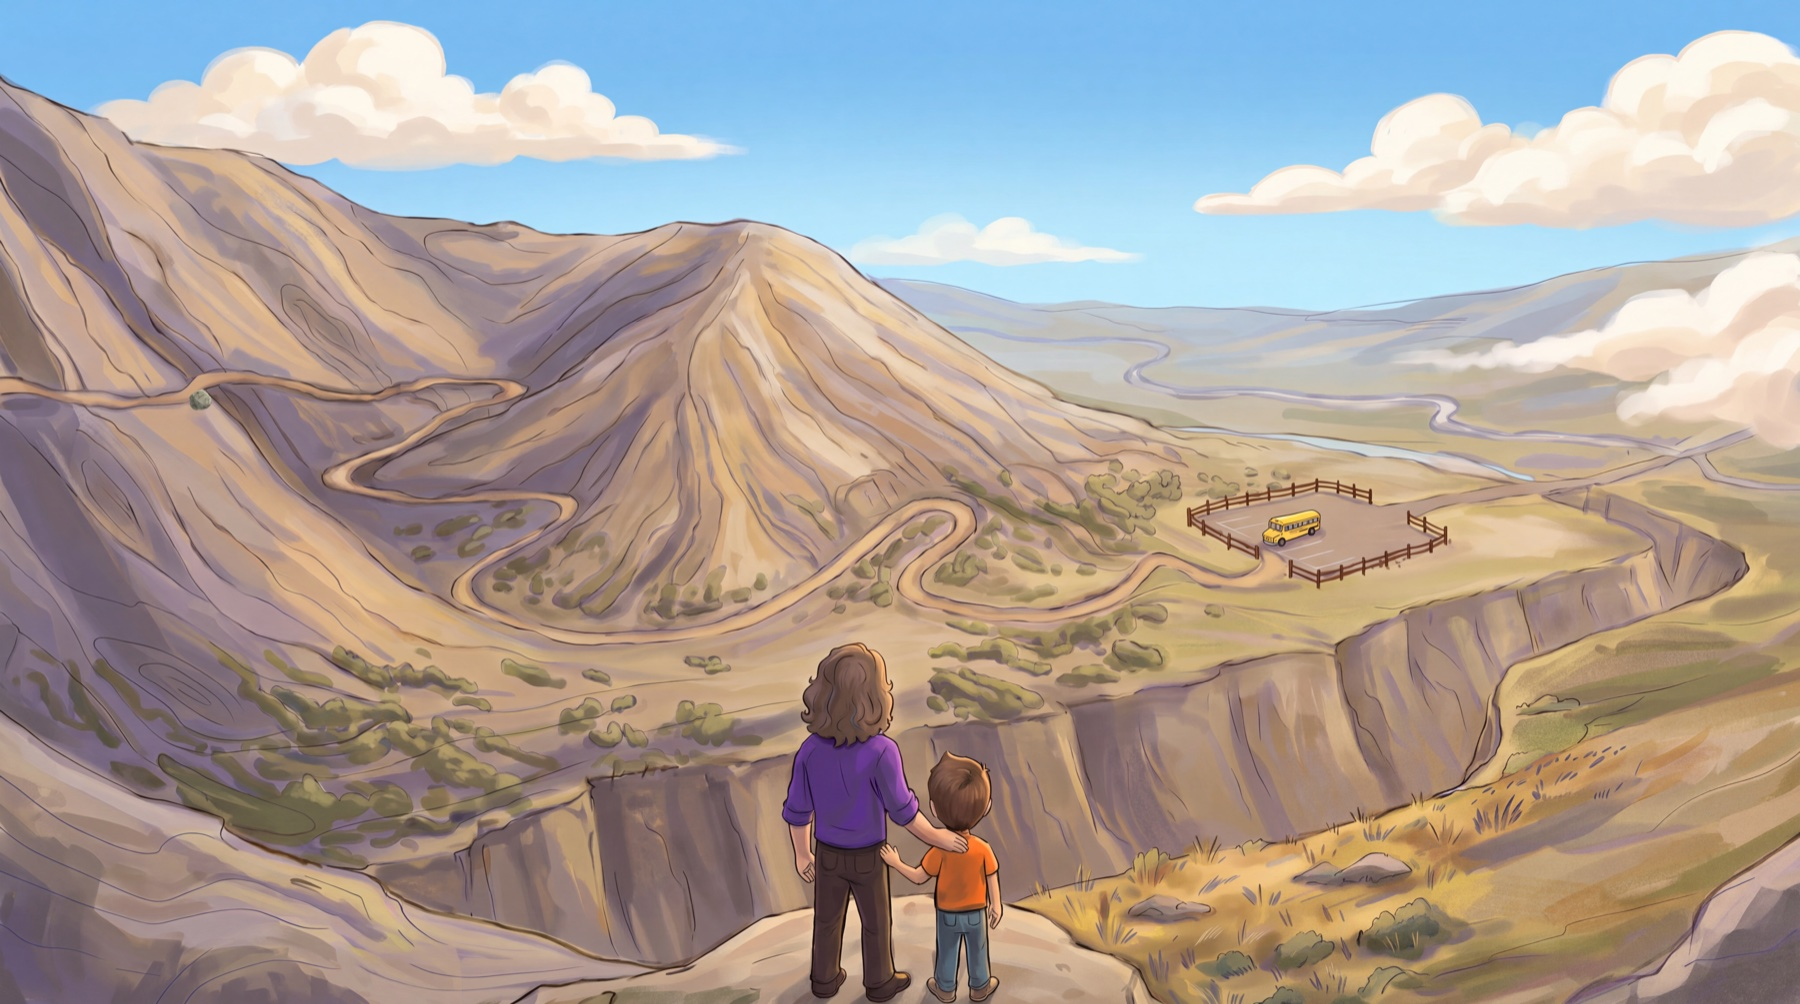
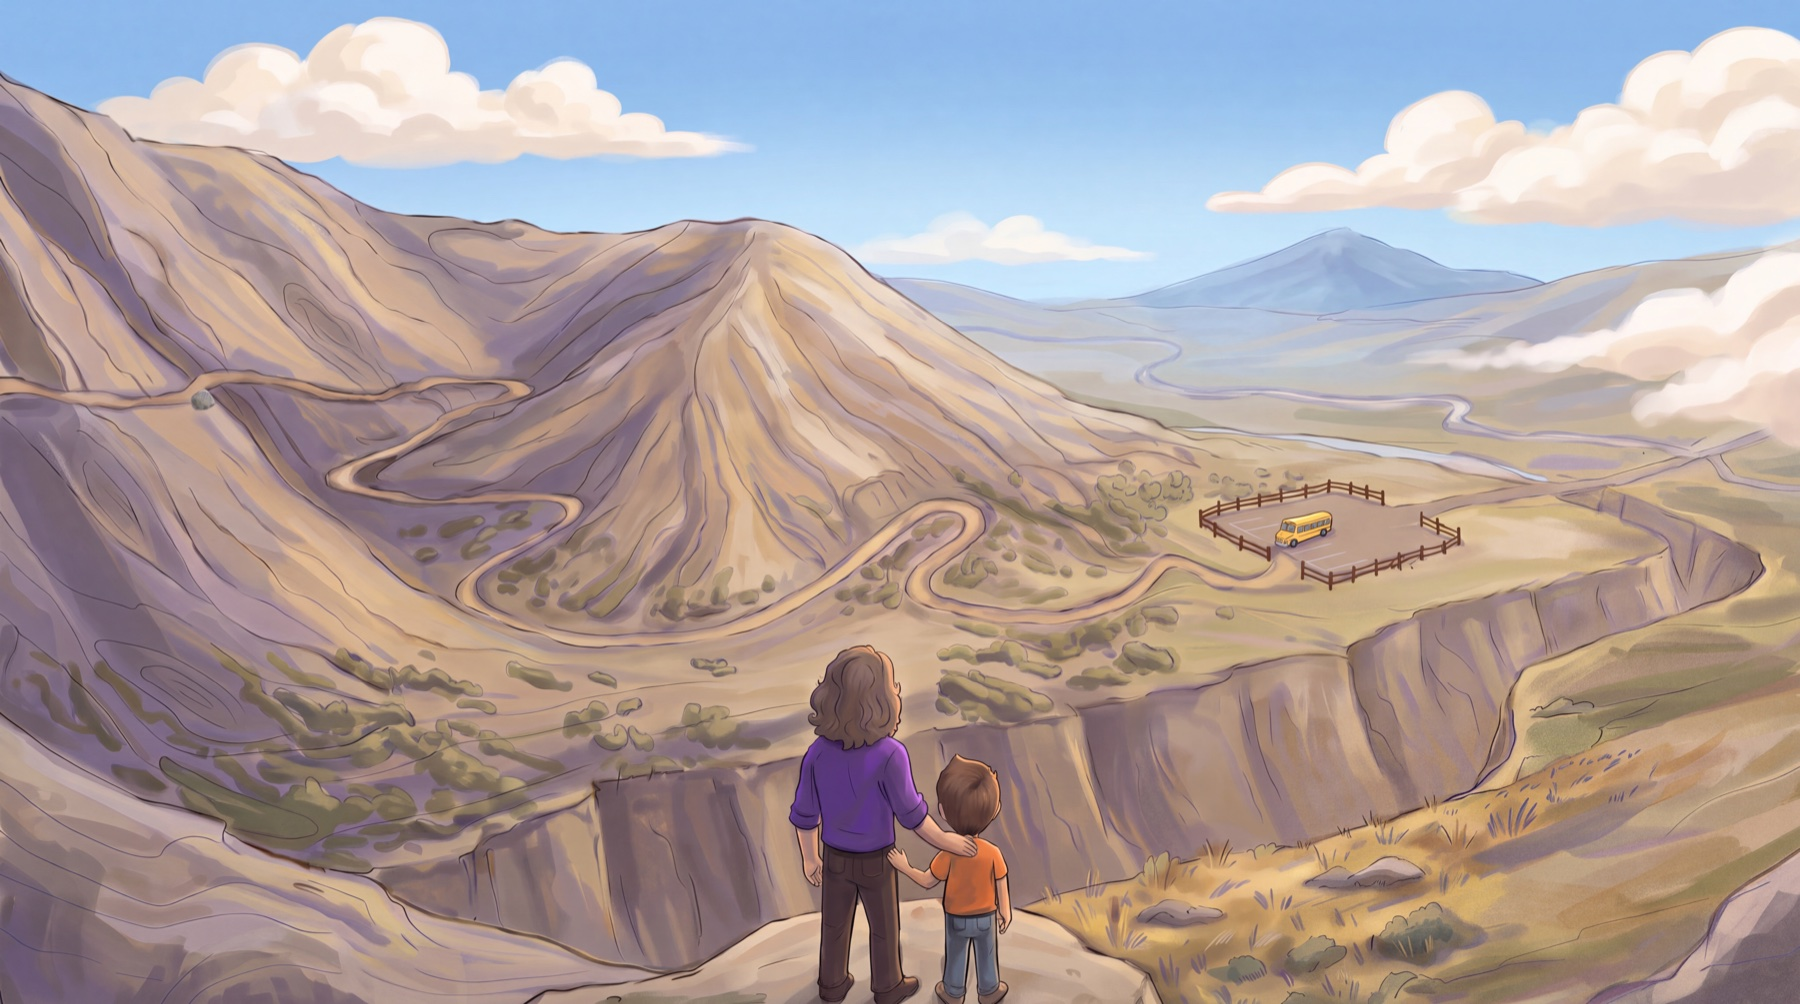
Climbing Machine: updated S3/S17/S18 art + S13 line; Pickup Soccer: Aug 9 session
Book:
- Swapped in James's updated finals: spread 3 (new named file) and spreads 17/18
  (the new image-14/15 summit paintings — looking out, then pointing onward).
- Spread 13 now opens "A little farther up the trail, Floyd pointed at a big
  tree…" (replacing "When they were done"; dropped the now-duplicate "up the
  trail" later in the sentence).

Pickup Soccer:
- New session as the live card: Sun Aug 9, 4:15–5:30 PM, free, black or white,
  RSVP → new Partiful; removed the old time-vote strip.
- Previous Partiful archived on the same page under "Past sessions".

diff --git a/site/events/pickup-soccer/index.html b/site/events/pickup-soccer/index.html
@@ -197,6 +197,11 @@
       transition: transform 0.15s, filter 0.2s;
     }
     .sc-cta:hover { transform: translateY(-1px); filter: brightness(1.4); }
+    .sc-past a {
+      color: var(--sc-soft); text-decoration: none; font-size: .95rem;
+      border-bottom: 1px solid rgba(22,22,26,.2);
+    }
+    .sc-past a:hover { color: var(--sc-ink); border-bottom-color: var(--sc-ink); }
   </style>
 </head>
 <body>
@@ -219,8 +224,8 @@
 
     <div class="sc-facts">
       <div>
-        <span class="sc-facts__k">When</span>
-        <span class="sc-facts__v">Sundays · time set by vote</span>
+        <span class="sc-facts__k">Next game</span>
+        <span class="sc-facts__v">Sun · Aug 9 · 4:15–5:30 PM</span>
       </div>
       <div>
         <span class="sc-facts__k">Cost</span>
@@ -235,26 +240,21 @@
     <section class="sc-body">
       <p>Come ball. And tell your people. 🖤🤍</p>
       <p>
-        Casual pickup soccer on Sundays in the city — no cost, no pressure, just
+        Free, quality, simple soccer on Sundays — no cost, no pressure, just
         show up and play. Wear black or white so we can split sides fast.
+        Spots are limited, so grab yours.
       </p>
 
-      <h2>Pick a time</h2>
       <p>
-        The kickoff time floats week to week — vote on Partiful and we'll lock in
-        whichever slot has the most people. <strong>RSVP by Friday.</strong>
-      </p>
-      <div class="sc-times" aria-label="Time options to vote on">
-        <div class="sc-time">10 AM<span>Sunday</span></div>
-        <div class="sc-time">1 PM<span>Sunday</span></div>
-        <div class="sc-time">5 PM<span>Sunday</span></div>
-      </div>
-
-      <p>
-        <a href="https://partiful.com/e/EkfHWYn9dt1fiWPxoisp" class="sc-cta" target="_blank" rel="noopener noreferrer">
+        <a href="https://partiful.com/e/IZB24VsKzsO1NGeb4U1M" class="sc-cta" target="_blank" rel="noopener noreferrer">
           RSVP on Partiful
           <svg width="12" height="12" viewBox="0 0 24 24" fill="none" stroke="currentColor" stroke-width="2"><path d="M18 13v6a2 2 0 01-2 2H5a2 2 0 01-2-2V8a2 2 0 012-2h6"/><polyline points="15 3 21 3 21 9"/><line x1="10" y1="14" x2="21" y2="3"/></svg>
         </a>
+      </p>
+
+      <h2>Past sessions</h2>
+      <p class="sc-past">
+        <a href="https://partiful.com/e/EkfHWYn9dt1fiWPxoisp" target="_blank" rel="noopener noreferrer">First run — Sunday kickoff, time set by vote ↗</a>
       </p>
     </section>
 

diff --git a/site/builds/climbing-machine/index.html b/site/builds/climbing-machine/index.html
@@ -301,7 +301,7 @@
 
       <!-- S13 -->
       <div class="page tpage"><div class="inner">
-        <div class="txt"><p>When they were done, Floyd pointed at a big tree up the trail and asked “How many steps if you run there?”</p><p>James took a deep breath of air, guessed, and went off. Up and up and up.</p></div>
+        <div class="txt"><p>A little farther up the trail, Floyd pointed at a big tree and asked “How many steps if you run there?”</p><p>James took a deep breath of air, guessed, and went off. Up and up and up.</p></div>
         <div class="folio">26</div>
       </div></div>
       <div class="page apage"><div class="inner">
